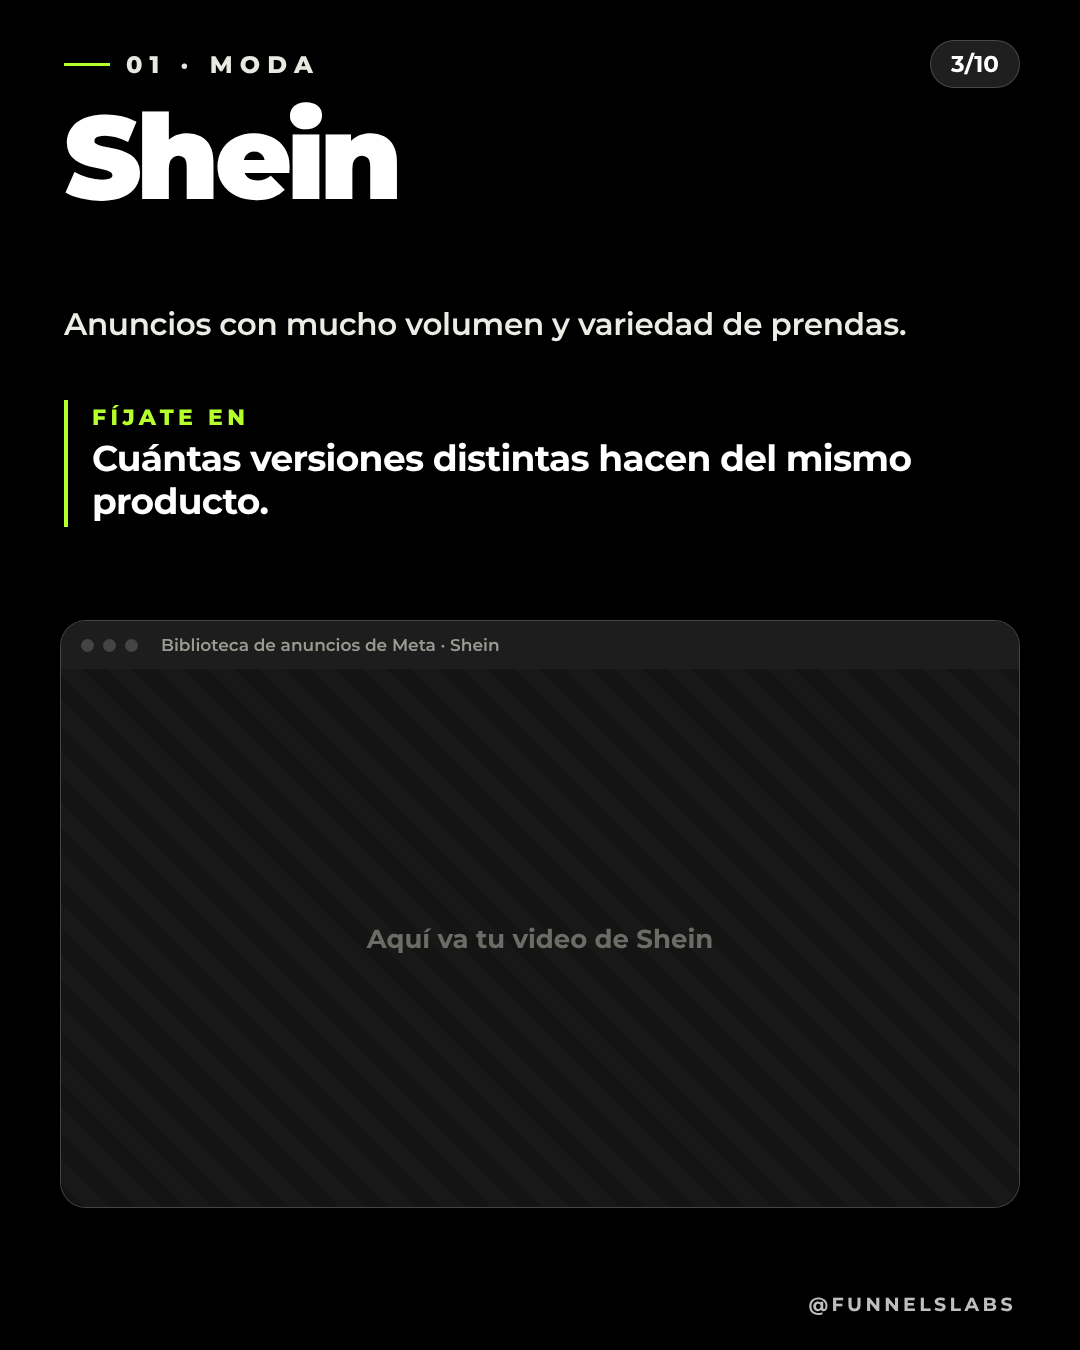
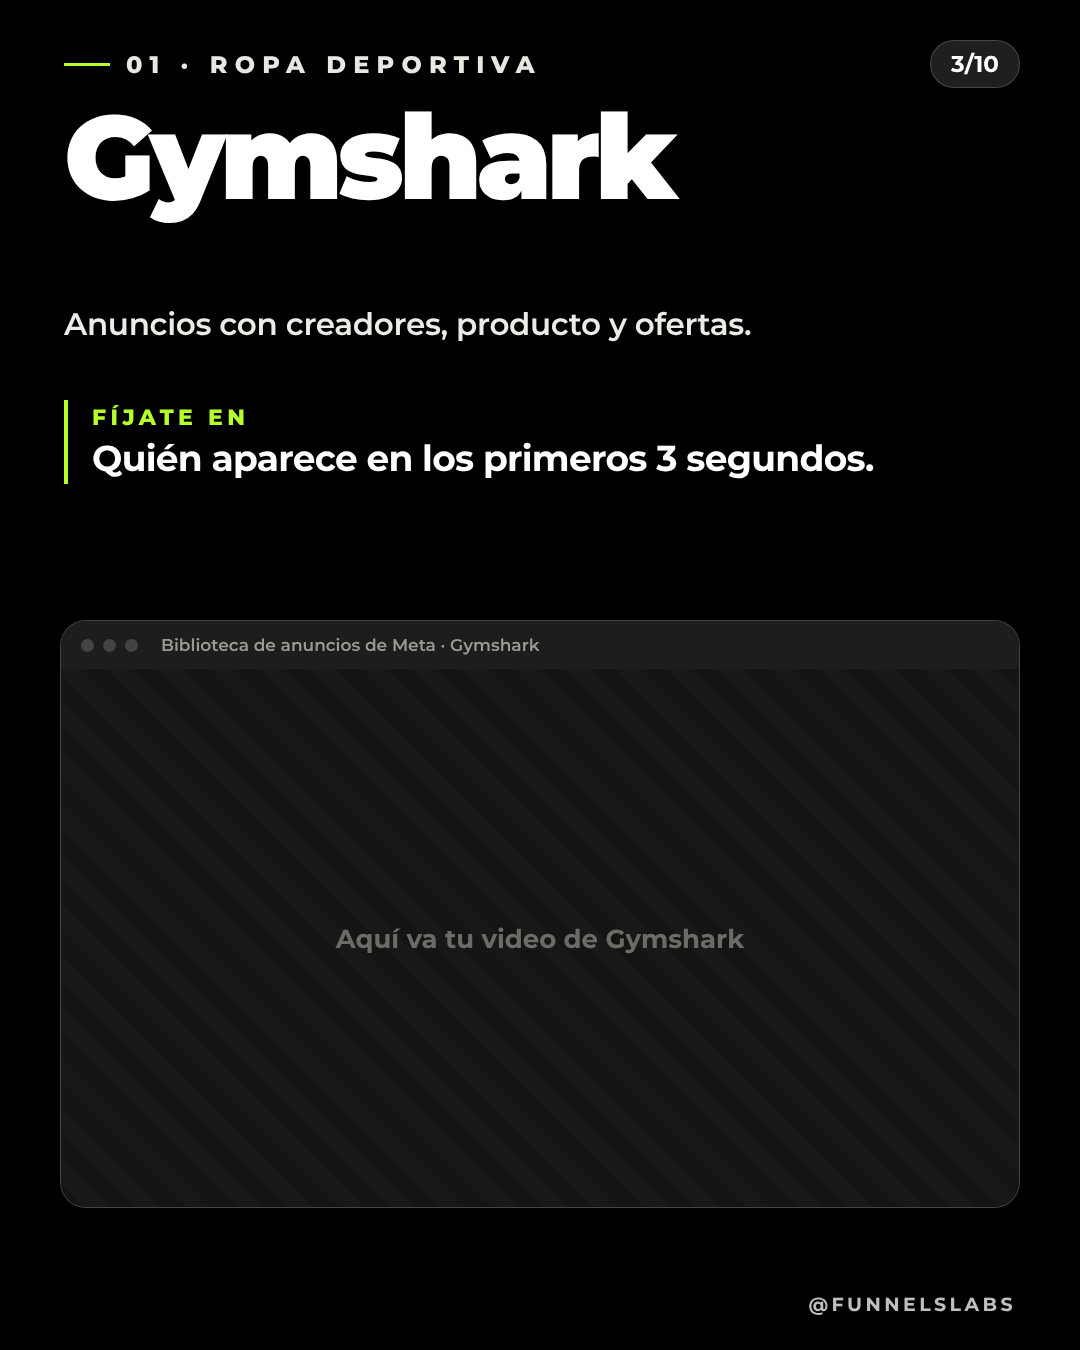
espiar-anuncios: vuelve a las marcas anteriores (Gymshark, Duolingo, HelloFresh, Olipop, Liquid Death, Ritual)
Claude-Session: https://claude.ai/code/session_018d4LXHkXweDJXxfN5x99dL

diff --git a/carruseles/espiar-anuncios/carrusel.html b/carruseles/espiar-anuncios/carrusel.html
@@ -52,19 +52,19 @@ body{background:#333;font-family:"Montserrat",Arial,sans-serif;display:flex;flex
 <div class="row"><span class="ic"><svg viewBox="0 0 24 24" fill="none" stroke="currentColor" stroke-width="1.7" stroke-linecap="round" stroke-linejoin="round"><circle cx="12" cy="12" r="9"/><path d="M12 7v10M9.5 9.5h4a1.8 1.8 0 0 1 0 3.5h-3a1.8 1.8 0 0 0 0 3.5h4"/></svg></span><div><b>Es pública y gratis</b><span>Cualquier persona puede entrar, sin cuenta de anunciante.</span></div></div>
 <div class="row"><span class="ic"><svg viewBox="0 0 24 24" fill="none" stroke="currentColor" stroke-width="1.7" stroke-linecap="round" stroke-linejoin="round"><path d="M2.5 12S6 5.5 12 5.5 21.5 12 21.5 12 18 18.5 12 18.5 2.5 12 2.5 12z"/><circle cx="12" cy="12" r="3"/></svg></span><div><b>Muestra anuncios activos</b><span>Los mensajes, formatos y ofertas que una marca tiene hoy.</span></div></div>
 <div class="row last"><span class="ic"><svg viewBox="0 0 24 24" fill="none" stroke="currentColor" stroke-width="1.7" stroke-linecap="round" stroke-linejoin="round"><path d="M9 6h11M9 12h11M9 18h11"/><circle cx="4.5" cy="6" r="1"/><circle cx="4.5" cy="12" r="1"/><circle cx="4.5" cy="18" r="1"/></svg></span><div><b>Te ahorra horas</b><span>Ves ideas reales antes de gastar en probar las tuyas.</span></div></div>
-</div><div class="ph" style="width:545px;top:720px;left:267px"><img src="img/chat-c.png"></div><div class="foot"><span>@funnelslabs</span></div></section><section class="slide"><div class="n">3/10</div><div class="kick"><i></i>01 · Moda</div><div class="h" style="font-size:118px">Shein</div><div class="sub">Anuncios con mucho volumen y variedad de prendas.</div>
-<div class="look"><b>Fíjate en</b><span>Cuántas versiones distintas hacen del mismo producto.</span></div>
-<div class="win" id="slot3"><div class="bar"><i></i><i></i><i></i><em>Biblioteca de anuncios de Meta · Shein</em></div><div class="vid"><span>Aquí va tu video de Shein</span></div></div><div class="foot"><span>@funnelslabs</span></div></section><section class="slide"><div class="n">4/10</div><div class="kick"><i></i>02 · Tienda online</div><div class="h" style="font-size:118px">Temu</div><div class="sub">Anuncios basados en ofertas y descuentos.</div>
-<div class="look"><b>Fíjate en</b><span>Cómo destacan el precio y la urgencia.</span></div>
-<div class="win" id="slot4"><div class="bar"><i></i><i></i><i></i><em>Biblioteca de anuncios de Meta · Temu</em></div><div class="vid"><span>Aquí va tu video de Temu</span></div></div><div class="foot"><span>@funnelslabs</span></div></section><section class="slide"><div class="n">5/10</div><div class="kick"><i></i>03 · E-commerce</div><div class="h" style="font-size:100px">Mercado Libre</div><div class="sub">Anuncios que combinan oferta, envío y cuotas.</div>
-<div class="look"><b>Fíjate en</b><span>Cómo comunican el envío y las formas de pago.</span></div>
-<div class="win" id="slot5"><div class="bar"><i></i><i></i><i></i><em>Biblioteca de anuncios de Meta · Mercado Libre</em></div><div class="vid"><span>Aquí va tu video de Mercado Libre</span></div></div><div class="foot"><span>@funnelslabs</span></div></section><section class="slide"><div class="n">6/10</div><div class="kick"><i></i>04 · Fintech</div><div class="h" style="font-size:118px">Nubank</div><div class="sub">Anuncios que explican un servicio financiero con claridad.</div>
-<div class="look"><b>Fíjate en</b><span>Cómo simplifican algo que parece complicado.</span></div>
-<div class="win" id="slot6"><div class="bar"><i></i><i></i><i></i><em>Biblioteca de anuncios de Meta · Nubank</em></div><div class="vid"><span>Aquí va tu video de Nubank</span></div></div><div class="foot"><span>@funnelslabs</span></div></section><section class="slide"><div class="n">7/10</div><div class="kick"><i></i>05 · Delivery</div><div class="h" style="font-size:118px">Rappi</div><div class="sub">Anuncios con promociones y mucha variedad.</div>
-<div class="look"><b>Fíjate en</b><span>Cómo muestran la promoción en el primer segundo.</span></div>
-<div class="win" id="slot7"><div class="bar"><i></i><i></i><i></i><em>Biblioteca de anuncios de Meta · Rappi</em></div><div class="vid"><span>Aquí va tu video de Rappi</span></div></div><div class="foot"><span>@funnelslabs</span></div></section><section class="slide"><div class="n">8/10</div><div class="kick"><i></i>06 · Ropa deportiva</div><div class="h" style="font-size:118px">Nike</div><div class="sub">Anuncios que venden una idea antes que el producto.</div>
-<div class="look"><b>Fíjate en</b><span>Cómo cuentan una historia y no solo muestran el producto.</span></div>
-<div class="win" id="slot8"><div class="bar"><i></i><i></i><i></i><em>Biblioteca de anuncios de Meta · Nike</em></div><div class="vid"><span>Aquí va tu video de Nike</span></div></div><div class="foot"><span>@funnelslabs</span></div></section><section class="slide"><div class="n">9/10</div><div class="kick"><i></i>Cómo leerlos</div><div class="h" style="font-size:84px">Cómo saber si un<br><span class="l">anuncio funciona.</span></div>
+</div><div class="ph" style="width:545px;top:720px;left:267px"><img src="img/chat-c.png"></div><div class="foot"><span>@funnelslabs</span></div></section><section class="slide"><div class="n">3/10</div><div class="kick"><i></i>01 · Ropa deportiva</div><div class="h" style="font-size:118px">Gymshark</div><div class="sub">Anuncios con creadores, producto y ofertas.</div>
+<div class="look"><b>Fíjate en</b><span>Quién aparece en los primeros 3 segundos.</span></div>
+<div class="win" id="slot3"><div class="bar"><i></i><i></i><i></i><em>Biblioteca de anuncios de Meta · Gymshark</em></div><div class="vid"><span>Aquí va tu video de Gymshark</span></div></div><div class="foot"><span>@funnelslabs</span></div></section><section class="slide"><div class="n">4/10</div><div class="kick"><i></i>02 · Apps</div><div class="h" style="font-size:118px">Duolingo</div><div class="sub">Anuncios que parecen contenido, no publicidad.</div>
+<div class="look"><b>Fíjate en</b><span>El humor y cómo cuentan una idea en pocos segundos.</span></div>
+<div class="win" id="slot4"><div class="bar"><i></i><i></i><i></i><em>Biblioteca de anuncios de Meta · Duolingo</em></div><div class="vid"><span>Aquí va tu video de Duolingo</span></div></div><div class="foot"><span>@funnelslabs</span></div></section><section class="slide"><div class="n">5/10</div><div class="kick"><i></i>03 · Comida a domicilio</div><div class="h" style="font-size:100px">HelloFresh</div><div class="sub">Anuncios centrados en la oferta.</div>
+<div class="look"><b>Fíjate en</b><span>Cómo muestran el precio y qué incluye.</span></div>
+<div class="win" id="slot5"><div class="bar"><i></i><i></i><i></i><em>Biblioteca de anuncios de Meta · HelloFresh</em></div><div class="vid"><span>Aquí va tu video de HelloFresh</span></div></div><div class="foot"><span>@funnelslabs</span></div></section><section class="slide"><div class="n">6/10</div><div class="kick"><i></i>04 · Bebidas</div><div class="h" style="font-size:118px">Olipop</div><div class="sub">Anuncios que explican un beneficio con palabras simples.</div>
+<div class="look"><b>Fíjate en</b><span>Cómo explican el producto sin tecnicismos.</span></div>
+<div class="win" id="slot6"><div class="bar"><i></i><i></i><i></i><em>Biblioteca de anuncios de Meta · Olipop</em></div><div class="vid"><span>Aquí va tu video de Olipop</span></div></div><div class="foot"><span>@funnelslabs</span></div></section><section class="slide"><div class="n">7/10</div><div class="kick"><i></i>05 · Agua en lata</div><div class="h" style="font-size:100px">Liquid Death</div><div class="sub">Anuncios con una personalidad muy marcada.</div>
+<div class="look"><b>Fíjate en</b><span>Los ganchos inesperados y el tono de la marca.</span></div>
+<div class="win" id="slot7"><div class="bar"><i></i><i></i><i></i><em>Biblioteca de anuncios de Meta · Liquid Death</em></div><div class="vid"><span>Aquí va tu video de Liquid Death</span></div></div><div class="foot"><span>@funnelslabs</span></div></section><section class="slide"><div class="n">8/10</div><div class="kick"><i></i>06 · Suplementos</div><div class="h" style="font-size:118px">Ritual</div><div class="sub">Anuncios que construyen confianza.</div>
+<div class="look"><b>Fíjate en</b><span>Cómo muestran los ingredientes y de dónde vienen.</span></div>
+<div class="win" id="slot8"><div class="bar"><i></i><i></i><i></i><em>Biblioteca de anuncios de Meta · Ritual</em></div><div class="vid"><span>Aquí va tu video de Ritual</span></div></div><div class="foot"><span>@funnelslabs</span></div></section><section class="slide"><div class="n">9/10</div><div class="kick"><i></i>Cómo leerlos</div><div class="h" style="font-size:84px">Cómo saber si un<br><span class="l">anuncio funciona.</span></div>
 <div class="panel" style="top:300px">
 <div class="row"><span class="ic"><svg viewBox="0 0 24 24" fill="none" stroke="currentColor" stroke-width="1.7" stroke-linecap="round" stroke-linejoin="round"><rect x="3.5" y="5" width="17" height="15" rx="2.5"/><path d="M3.5 10h17M8 3v4M16 3v4"/></svg></span><div><b>En circulación desde</b><span>Si lleva meses activo, es una pista de que sigue dando resultado.</span></div></div>
 <div class="row"><span class="ic"><svg viewBox="0 0 24 24" fill="none" stroke="currentColor" stroke-width="1.7" stroke-linecap="round" stroke-linejoin="round"><path d="M12 4l9 5-9 5-9-5z"/><path d="M3 14l9 5 9-5"/></svg></span><div><b>Varias versiones</b><span>La marca está probando cambios sobre una misma idea.</span></div></div>

diff --git a/carruseles/espiar-anuncios/generar.py b/carruseles/espiar-anuncios/generar.py
@@ -31,12 +31,12 @@ S.append(f'''<section class="slide">{head(2,'Biblioteca de anuncios','Tu compete
 {row('eye','Muestra anuncios activos','Los mensajes, formatos y ofertas que una marca tiene hoy.')}
 {row('list','Te ahorra horas','Ves ideas reales antes de gastar en probar las tuyas.',True)}
 </div>{photo('chat',545,720)}{foot}</section>''')
-B=[('Moda','Shein','Anuncios con mucho volumen y variedad de prendas.','Cuántas versiones distintas hacen del mismo producto.'),
-   ('Tienda online','Temu','Anuncios basados en ofertas y descuentos.','Cómo destacan el precio y la urgencia.'),
-   ('E-commerce','Mercado Libre','Anuncios que combinan oferta, envío y cuotas.','Cómo comunican el envío y las formas de pago.'),
-   ('Fintech','Nubank','Anuncios que explican un servicio financiero con claridad.','Cómo simplifican algo que parece complicado.'),
-   ('Delivery','Rappi','Anuncios con promociones y mucha variedad.','Cómo muestran la promoción en el primer segundo.'),
-   ('Ropa deportiva','Nike','Anuncios que venden una idea antes que el producto.','Cómo cuentan una historia y no solo muestran el producto.')]
+B=[('Ropa deportiva','Gymshark','Anuncios con creadores, producto y ofertas.','Quién aparece en los primeros 3 segundos.'),
+   ('Apps','Duolingo','Anuncios que parecen contenido, no publicidad.','El humor y cómo cuentan una idea en pocos segundos.'),
+   ('Comida a domicilio','HelloFresh','Anuncios centrados en la oferta.','Cómo muestran el precio y qué incluye.'),
+   ('Bebidas','Olipop','Anuncios que explican un beneficio con palabras simples.','Cómo explican el producto sin tecnicismos.'),
+   ('Agua en lata','Liquid Death','Anuncios con una personalidad muy marcada.','Los ganchos inesperados y el tono de la marca.'),
+   ('Suplementos','Ritual','Anuncios que construyen confianza.','Cómo muestran los ingredientes y de dónde vienen.')]
 for k,(c,n,d,l) in enumerate(B): S.append(brand(3+k,c,n,d,l,118 if len(n)<10 else 100))
 S.append(f'''<section class="slide">{head(9,'Cómo leerlos','Cómo saber si un','anuncio funciona.',None,84)}
 <div class="panel" style="top:300px">

diff --git a/carruseles/espiar-anuncios/componer-videos.py b/carruseles/espiar-anuncios/componer-videos.py
@@ -2,7 +2,7 @@
 Uso: guarda los videos en videos/ con estos nombres (mp4 o mov) y ejecuta: python3 componer-videos.py"""
 import os, glob, subprocess
 os.chdir(os.path.dirname(os.path.abspath(__file__)))
-SLIDES={3:'shein',4:'temu',5:'mercado-libre',6:'nubank',7:'rappi',8:'nike'}
+SLIDES={3:'gymshark',4:'duolingo',5:'hellofresh',6:'olipop',7:'liquid-death',8:'ritual'}
 X,Y,W,H=60,668,960,540          # hueco del video dentro del marco
 for n,slug in SLIDES.items():
     v=[f for f in glob.glob(f'videos/{slug}.*') if f.lower().endswith(('.mp4','.mov','.m4v','.webm'))]
